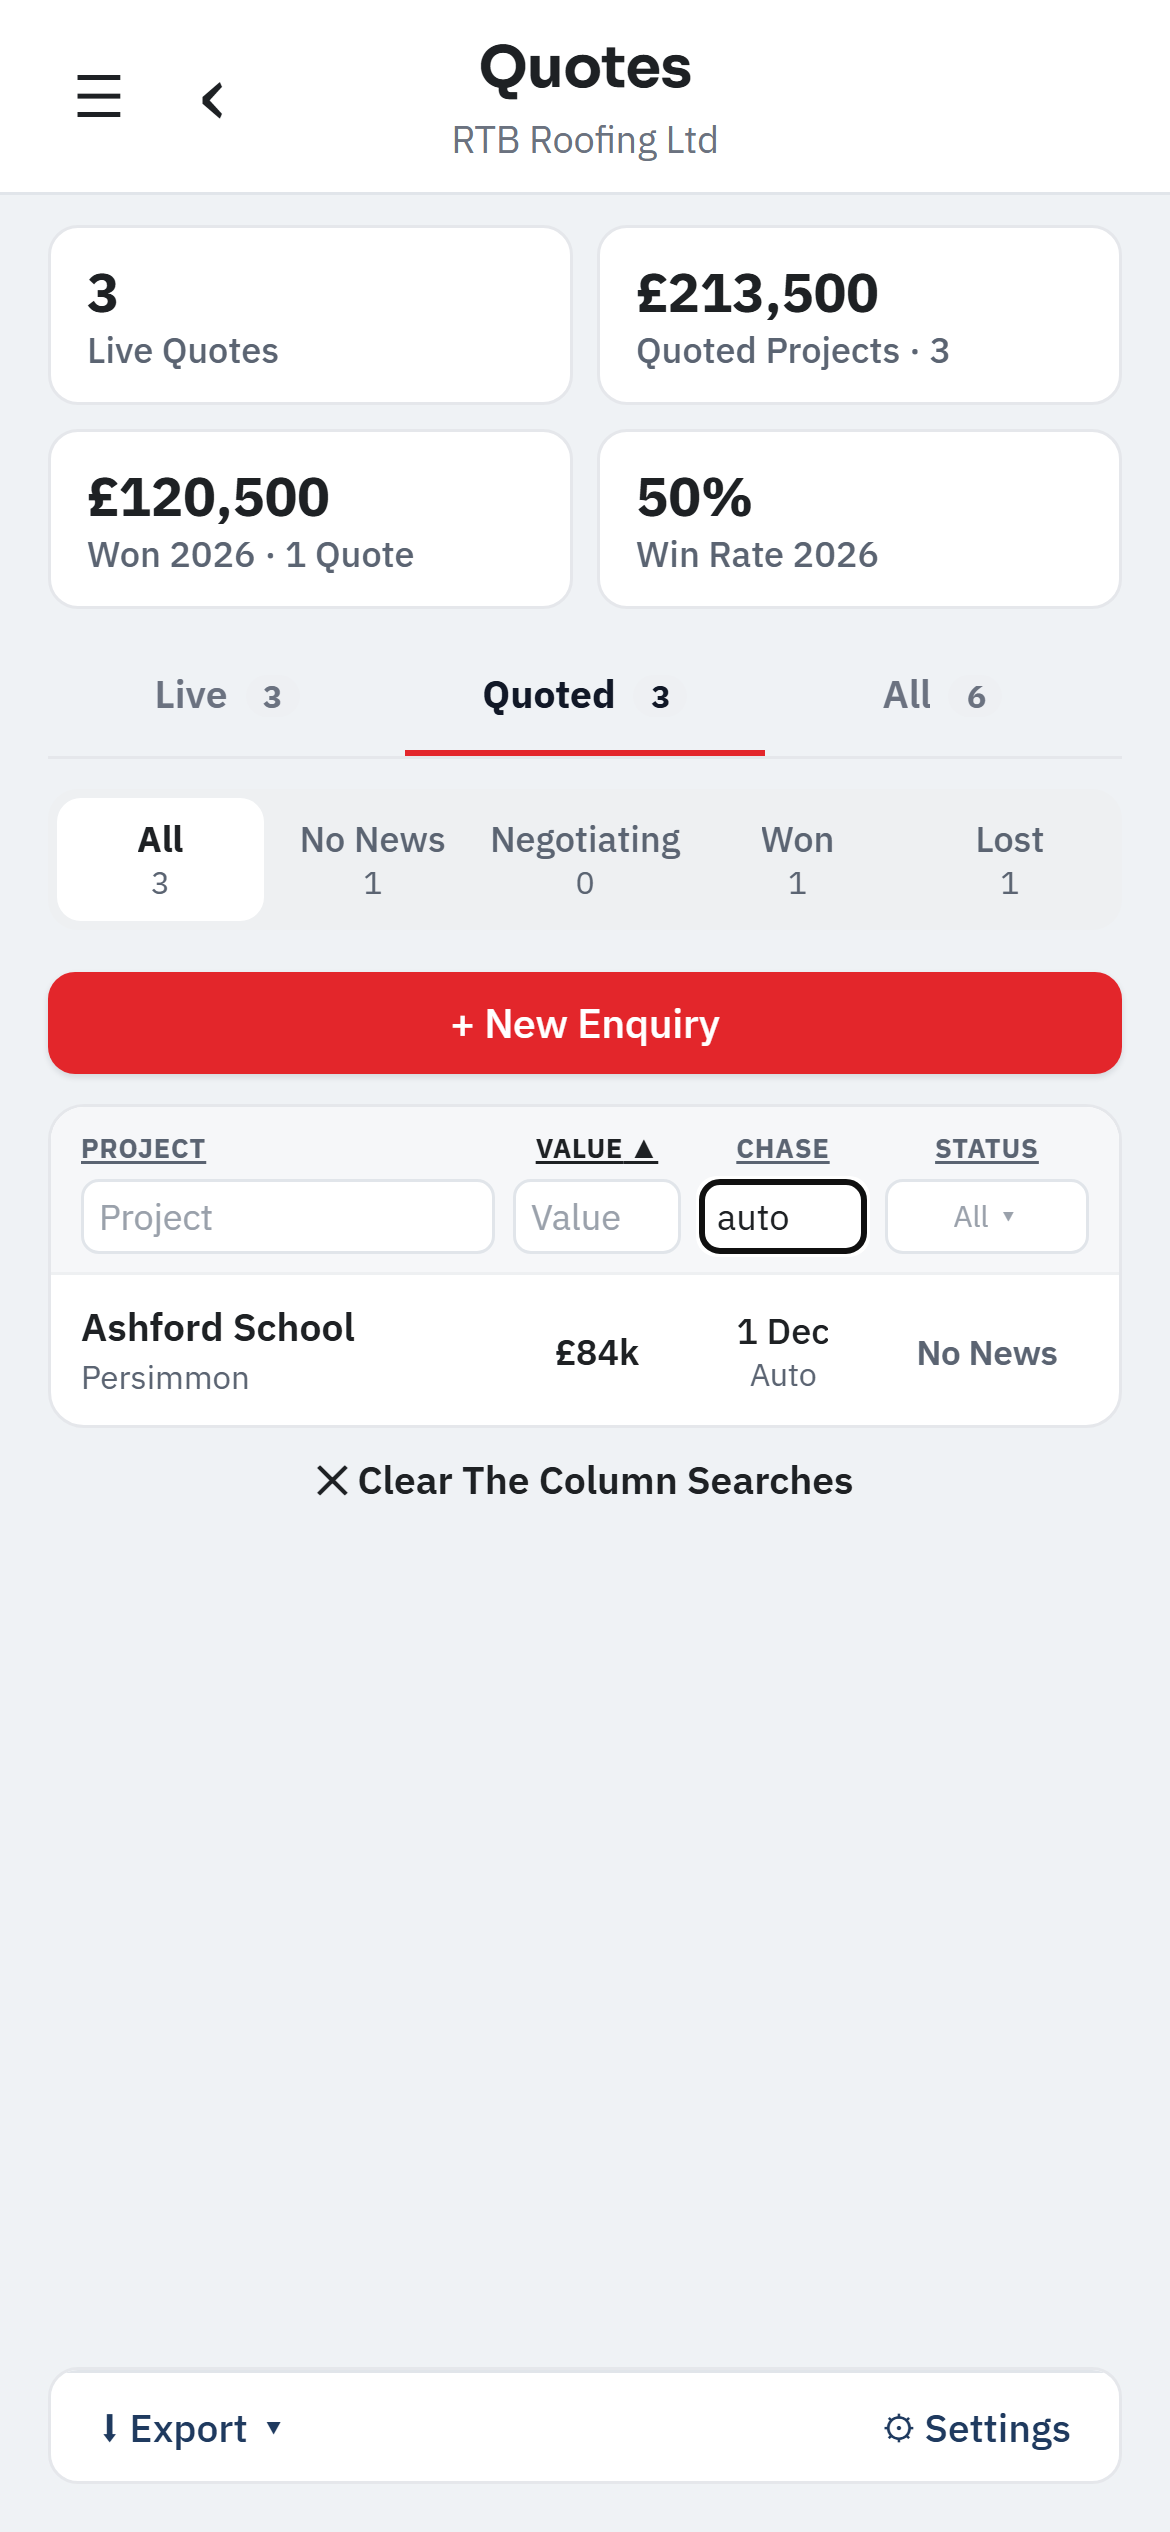
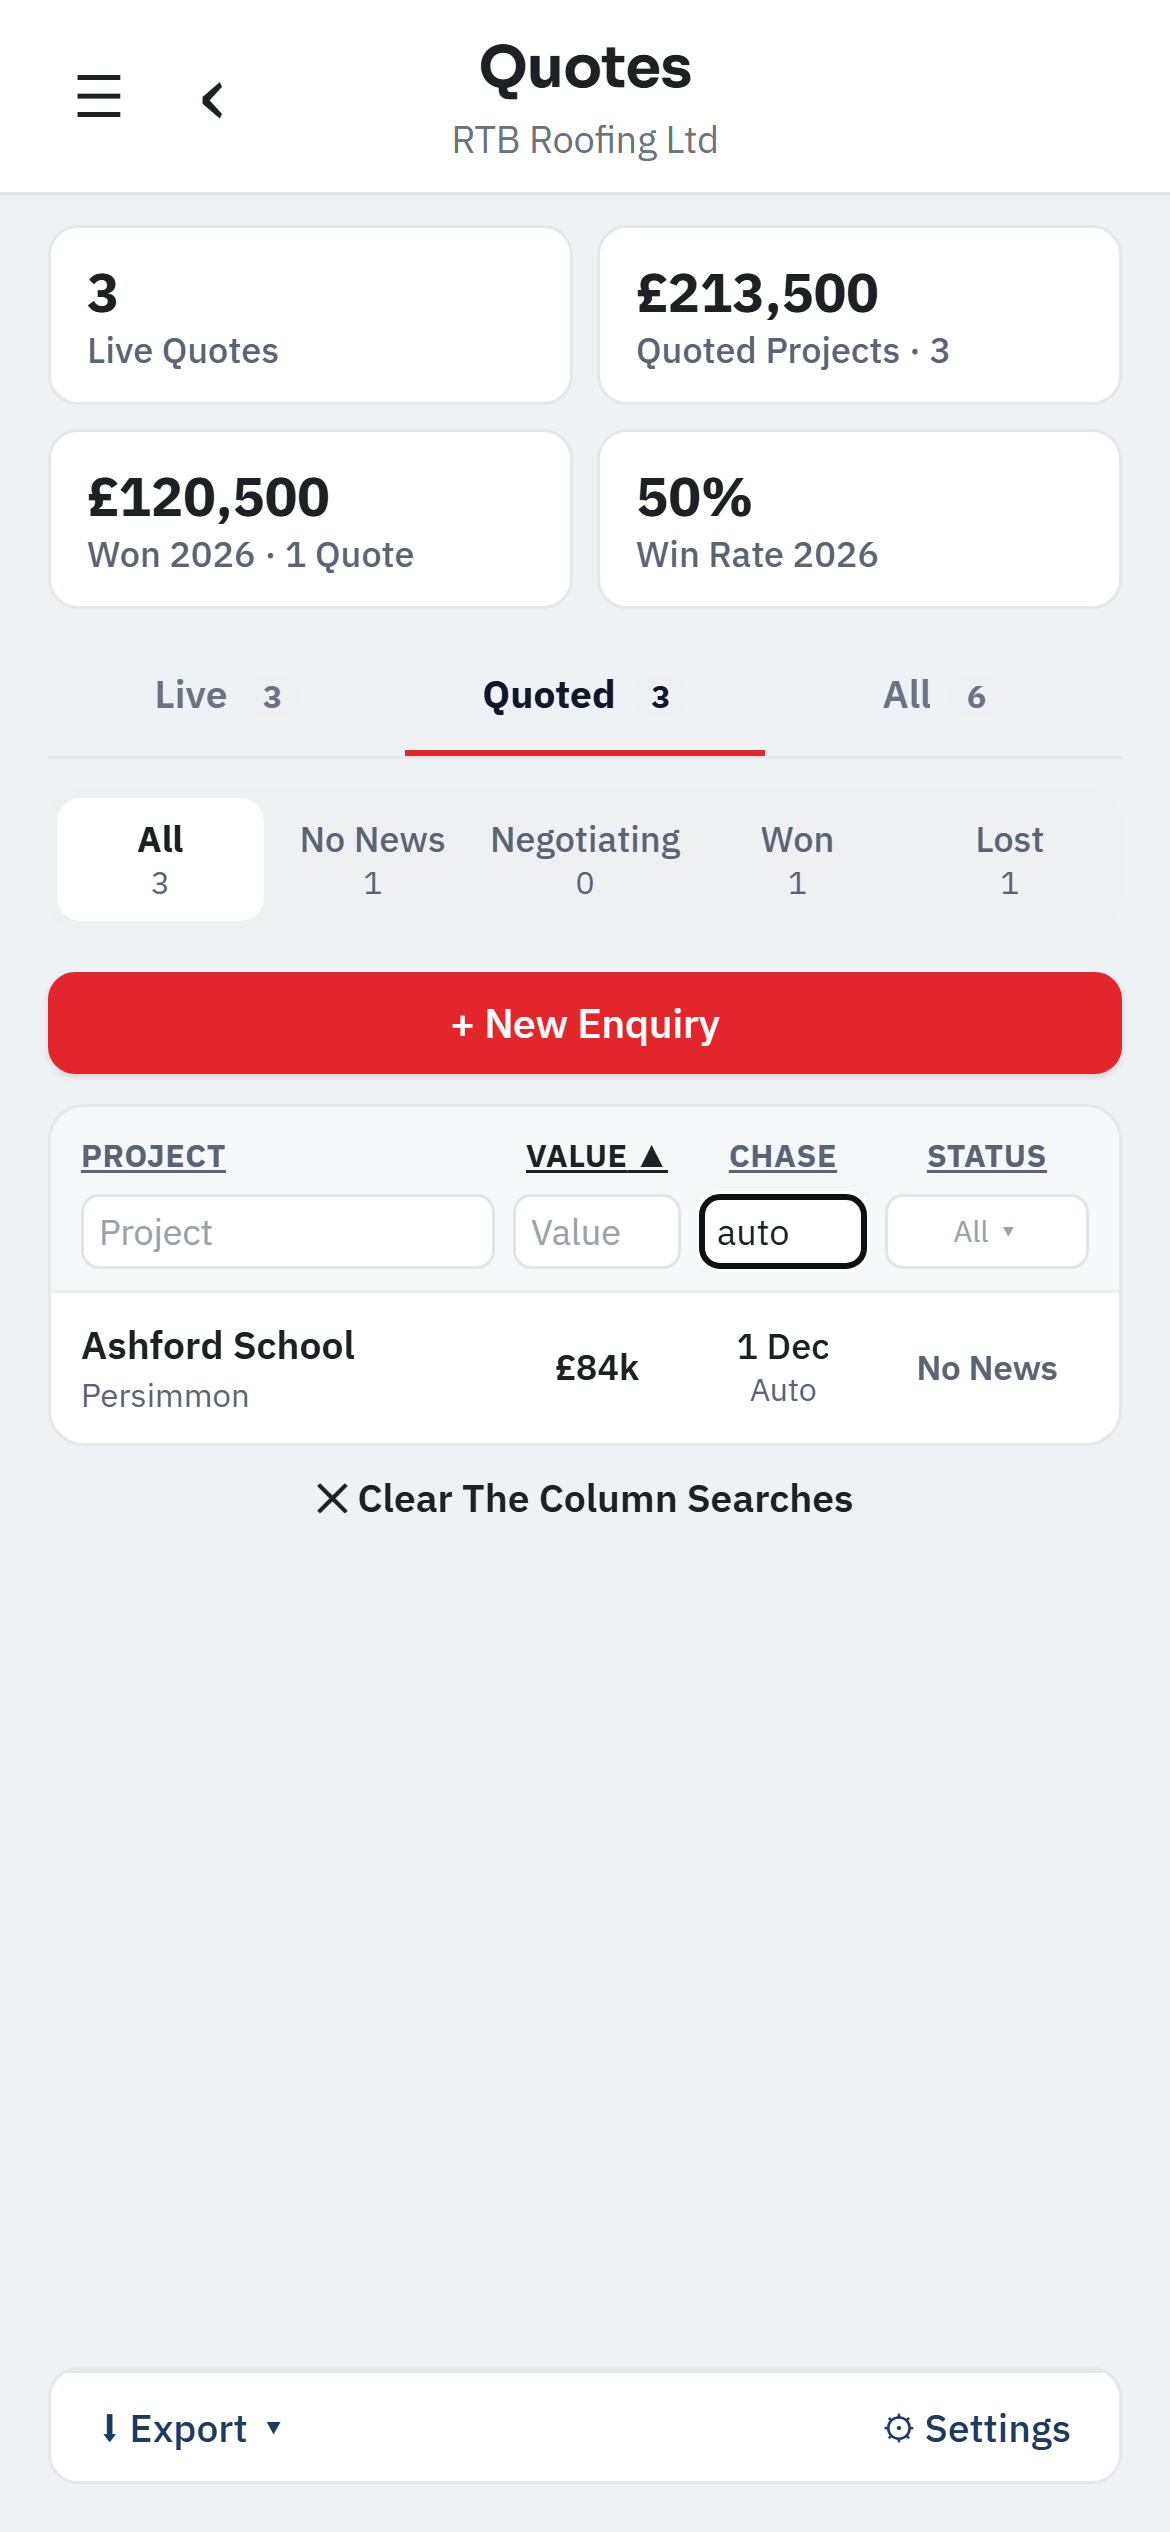
Quotes phone table (Andy, 14 Nov: "the search rows, not table rows"): the headings go back to their size; only the column search boxes are 1.2 × smaller. quotecols-check 17/17.
Claude-Session: https://claude.ai/code/session_012KhfNvBEbifMJmPdX7yZfp

diff --git a/app-native/src/app/(app)/pm/quotes/index.tsx b/app-native/src/app/(app)/pm/quotes/index.tsx
@@ -172,12 +172,12 @@ export default function Quotes() {
     const on = psort?.k === k;
     return (
       <Pressable key={k} accessibilityRole="button" accessibilityLabel={`Sort by ${l}`} onPress={() => setPsort(nextSort(psort, k))} style={w ? { width: w } : { flex: 1, minWidth: 0 }}>
-        <Text numberOfLines={1} style={{ textAlign: align, fontSize: 9, fontWeight: '700', color: on ? base.ink : base.slate, letterSpacing: 0.3, textDecorationLine: 'underline' }}>{l.toUpperCase()}{on ? (psort?.dir === 'asc' ? ' ▲' : ' ▼') : ''}</Text>
+        <Text numberOfLines={1} style={{ textAlign: align, fontSize: 10.5, fontWeight: '700', color: on ? base.ink : base.slate, letterSpacing: 0.3, textDecorationLine: 'underline' }}>{l.toUpperCase()}{on ? (psort?.dir === 'asc' ? ' ▲' : ' ▼') : ''}</Text>
       </Pressable>
     );
   };
-  // A box per column. The heading and search rows are 1.2 × smaller than the app's usual (Andy, 14 Nov 2026): 25px boxes
-  // with 12px writing (data-compact, see lib/webShell); the page set-up stops an iPhone zooming into them.
+  // A box per column, 1.2 × smaller than the app's usual boxes (Andy, 14 Nov 2026: the search boxes, not the table): 25px
+  // high with 12px writing (data-compact, see lib/webShell); the page set-up stops an iPhone zooming into them.
   const colBox = (k: string, ph: string, w?: number) => (
     <TextInput key={k} value={colQ[k] || ''} onChangeText={(t) => { setColQ({ ...colQ, [k]: t }); setShown(100); }} placeholder={ph} accessibilityLabel={`Search ${ph}`} placeholderTextColor="#9AA1AB" autoCapitalize="none" autoCorrect={false}
       {...({ dataSet: { compact: '1' } } as object)}
@@ -189,7 +189,7 @@ export default function Quotes() {
   };
   const phoneTable = (
     <View accessibilityLabel="Quotes table" style={{ backgroundColor: base.card, borderWidth: 1, borderColor: base.cardLine, borderRadius: 12, overflow: 'hidden' }}>
-      <View style={{ flexDirection: 'row', alignItems: 'center', gap: 6, paddingTop: 7.5, paddingBottom: 5, paddingHorizontal: 10, backgroundColor: '#F6F7F9' }}>
+      <View style={{ flexDirection: 'row', alignItems: 'center', gap: 6, paddingTop: 9, paddingBottom: 6, paddingHorizontal: 10, backgroundColor: '#F6F7F9' }}>
         {sortHead('p', 'Project')}
         {tab === 'live' ? sortHead('d', 'Due Back', W.d, 'center') : tab === 'quoted' ? <>{sortHead('v', 'Value', W.v, 'center')}{sortHead('c', 'Chase', W.c, 'center')}</> : sortHead('d', 'Date', W.d, 'center')}
         {sortHead('s', 'Status', W.s, 'center')}

diff --git a/tools/test-harness/quotecols-check.js b/tools/test-harness/quotecols-check.js
@@ -1,6 +1,6 @@
 // Quotes on a phone, as the laptop table (Andy, 14 Nov 2026): tap a heading to sort (A to Z, Z to A, off), a search box
-// under each column (Status a ▾ choice), and no Filter / Sort buttons. Then (same day): those two rows 1.2 × smaller and no
-// search bar above the table. Touch phone, fake database. node quotecols-check.js
+// under each column (Status a ▾ choice), and no Filter / Sort buttons. Then (same day): the search boxes 1.2 × smaller and no
+// search bar above the table. Just the search boxes are smaller; the headings and rows are as they were. Touch phone, fake database. node quotecols-check.js
 const {chromium, makeContext} = require('./harness');
 const path = require('path');
 const B = 'http://localhost:8081';
@@ -37,7 +37,7 @@ const check = (ok, what) => { console.log((ok ? 'PASS ' : 'FAIL ') + what); if (
   const vp = await page.evaluate(() => document.querySelector('meta[name="viewport"]').getAttribute('content'));
   const bh = (await page.locator('[aria-label="Search Project"] >> visible=true').first().boundingBox()).height;
   const hs = await page.locator('[aria-label="Sort by Project"] >> visible=true').first().evaluate((e) => getComputedStyle(e.querySelector('div') || e).fontSize);
-  check(fs === '12px' && Math.round(bh) === 25 && hs === '9px' && /maximum-scale=1/.test(vp), `heading and search rows 1.2 × smaller: boxes ${Math.round(bh)}px high, writing ${fs}, headings ${hs}; the page won't zoom into them`);
+  check(fs === '12px' && Math.round(bh) === 25 && hs === '10.5px' && /maximum-scale=1/.test(vp), `search boxes 1.2 × smaller (${Math.round(bh)}px high, writing ${fs}), headings as they were (${hs}); the page won't zoom into them`);
   const o0 = await order();
   await tap('Sort by Project'); const o1 = await order();
   check(o1.join('|') === 'Brighton Depot|Hove Flats re-roof|Lewes Barns', `Project heading: A to Z (${o1.join(', ')})`);

diff --git a/app-native/src/lib/webShell.ts b/app-native/src/lib/webShell.ts
@@ -22,7 +22,7 @@ if (Platform.OS === 'web' && typeof document !== 'undefined') {
     #root { width: 100%; height: 100%; height: 100dvh; overflow: hidden; }
     /* Boxes a touch smaller on a phone (Andy, 7 Nov 2026: 0.9x); maximum-scale=1 above stops Safari zooming into them. */
     @media (pointer: coarse), (max-width: 1099px) { input, textarea, select { font-size: 14.4px !important; } }
-    /* The small search boxes under a phone table's headings (Quotes, Andy 14 Nov 2026: 1.2x smaller). */
+    /* The small search boxes under a phone table's headings (Quotes, Andy 14 Nov 2026: the search boxes 1.2x smaller). */
     @media (pointer: coarse), (max-width: 1099px) { input[data-compact="1"] { font-size: 12px !important; } }
   `;
   document.head.appendChild(style);

diff --git a/docs/claude-code/SNAGS-2026-11-14.md b/docs/claude-code/SNAGS-2026-11-14.md
@@ -46,4 +46,4 @@ Every item from Andy's messages of 14 Nov. Each one is ticked off here as it's d
 ## Quotes (phone)
 - [x] Q1. Live quotes: tap Status in the table to change it (Pricing, Awaiting Information, Ready For Checking; the current one ticked). It saves like the quote's own page and moves its OneDrive folder too. Quoted jobs' Status still opens the quote. Test: `quotestatus-check.js` (8 checks); quotesphone-check still 30/30.
 - [x] Q2. The phone table works like the laptop one: tap a heading to sort (A to Z, Z to A, off; ▲ ▼ shows which), a search box under each column (Project also finds the customer and address; Date finds e.g. "jun"; Value takes ">50k"; Chase finds "auto"), and Status is a ▾ choice. The Filter and Sort buttons went on the phone; the search at the top stays. Nothing found: the table and its boxes stay, with ✕ Clear The Column Searches. A filter set by the Win Rate tile shows as "Only Year 2026 · ✕ Show All". Export › This View exports what the table shows. Test: `quotecols-check.js` (17 checks).
-- [x] Q3. Then: the heading and search rows 1.2 × smaller (25px boxes, 12px writing, 9px headings), and no search bar above the table on a phone (the Project box finds the customer and address too). "Awaiting Information" shows as "Awaiting Info" in the narrow Status column.
+- [x] Q3. Then: the search boxes 1.2 × smaller (25px high, 12px writing); the headings and table rows stay as they were (Andy: "The search rows, not table rows"), and no search bar above the table on a phone (the Project box finds the customer and address too). "Awaiting Information" shows as "Awaiting Info" in the narrow Status column.
